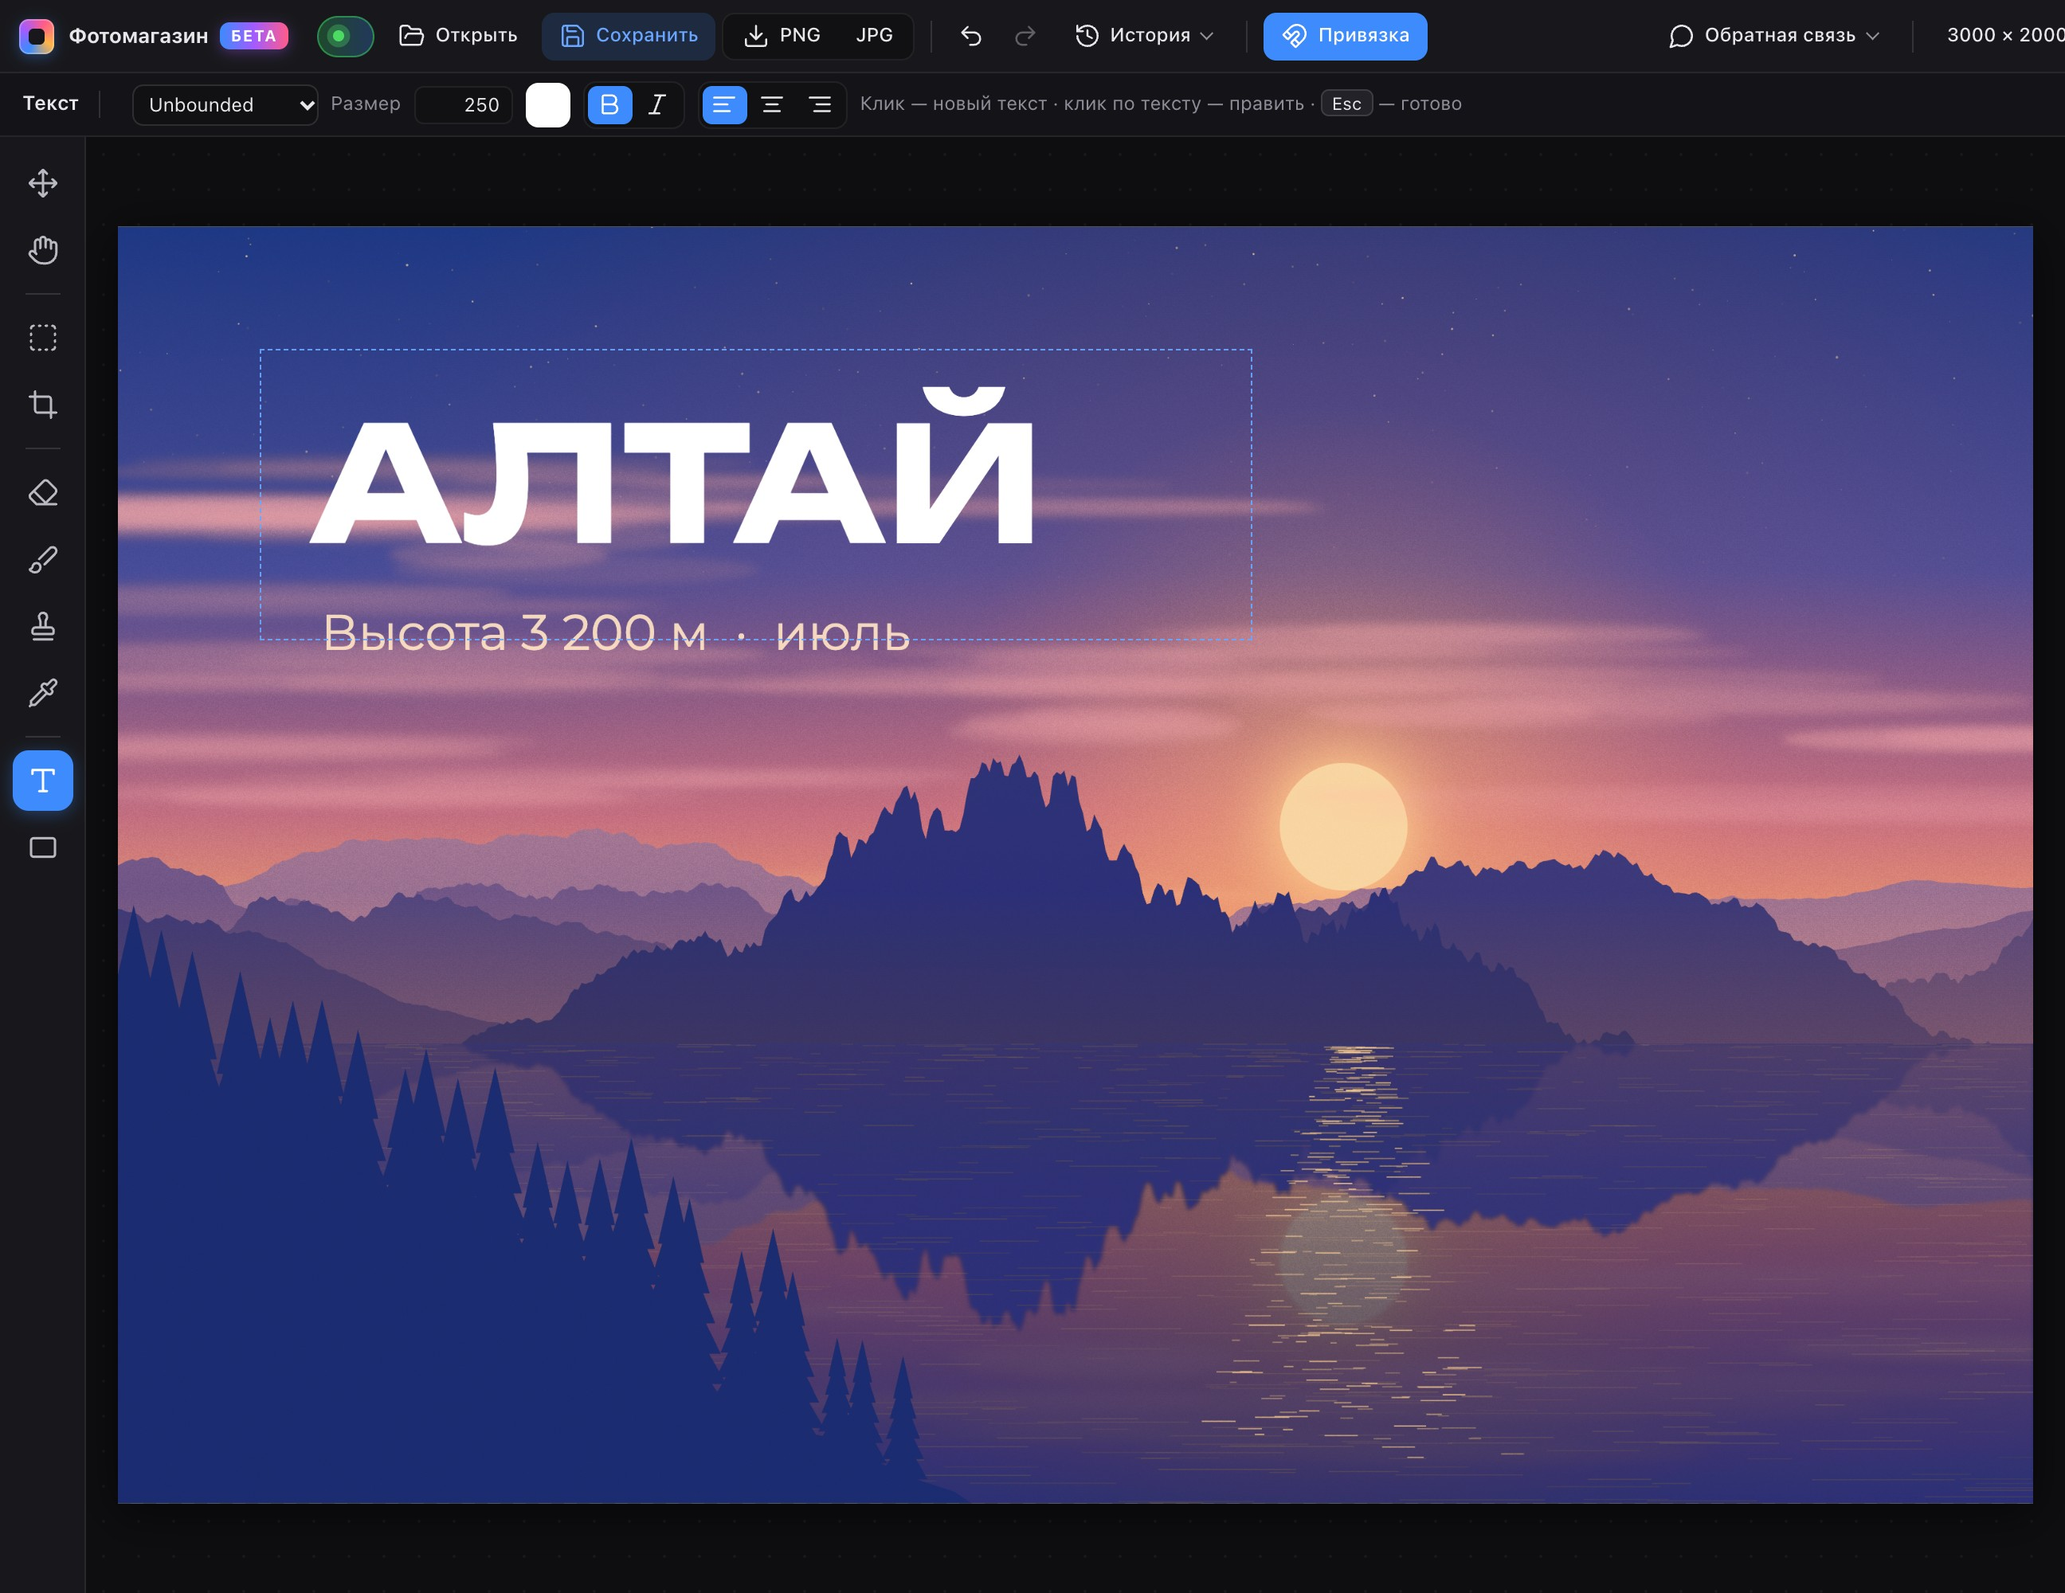
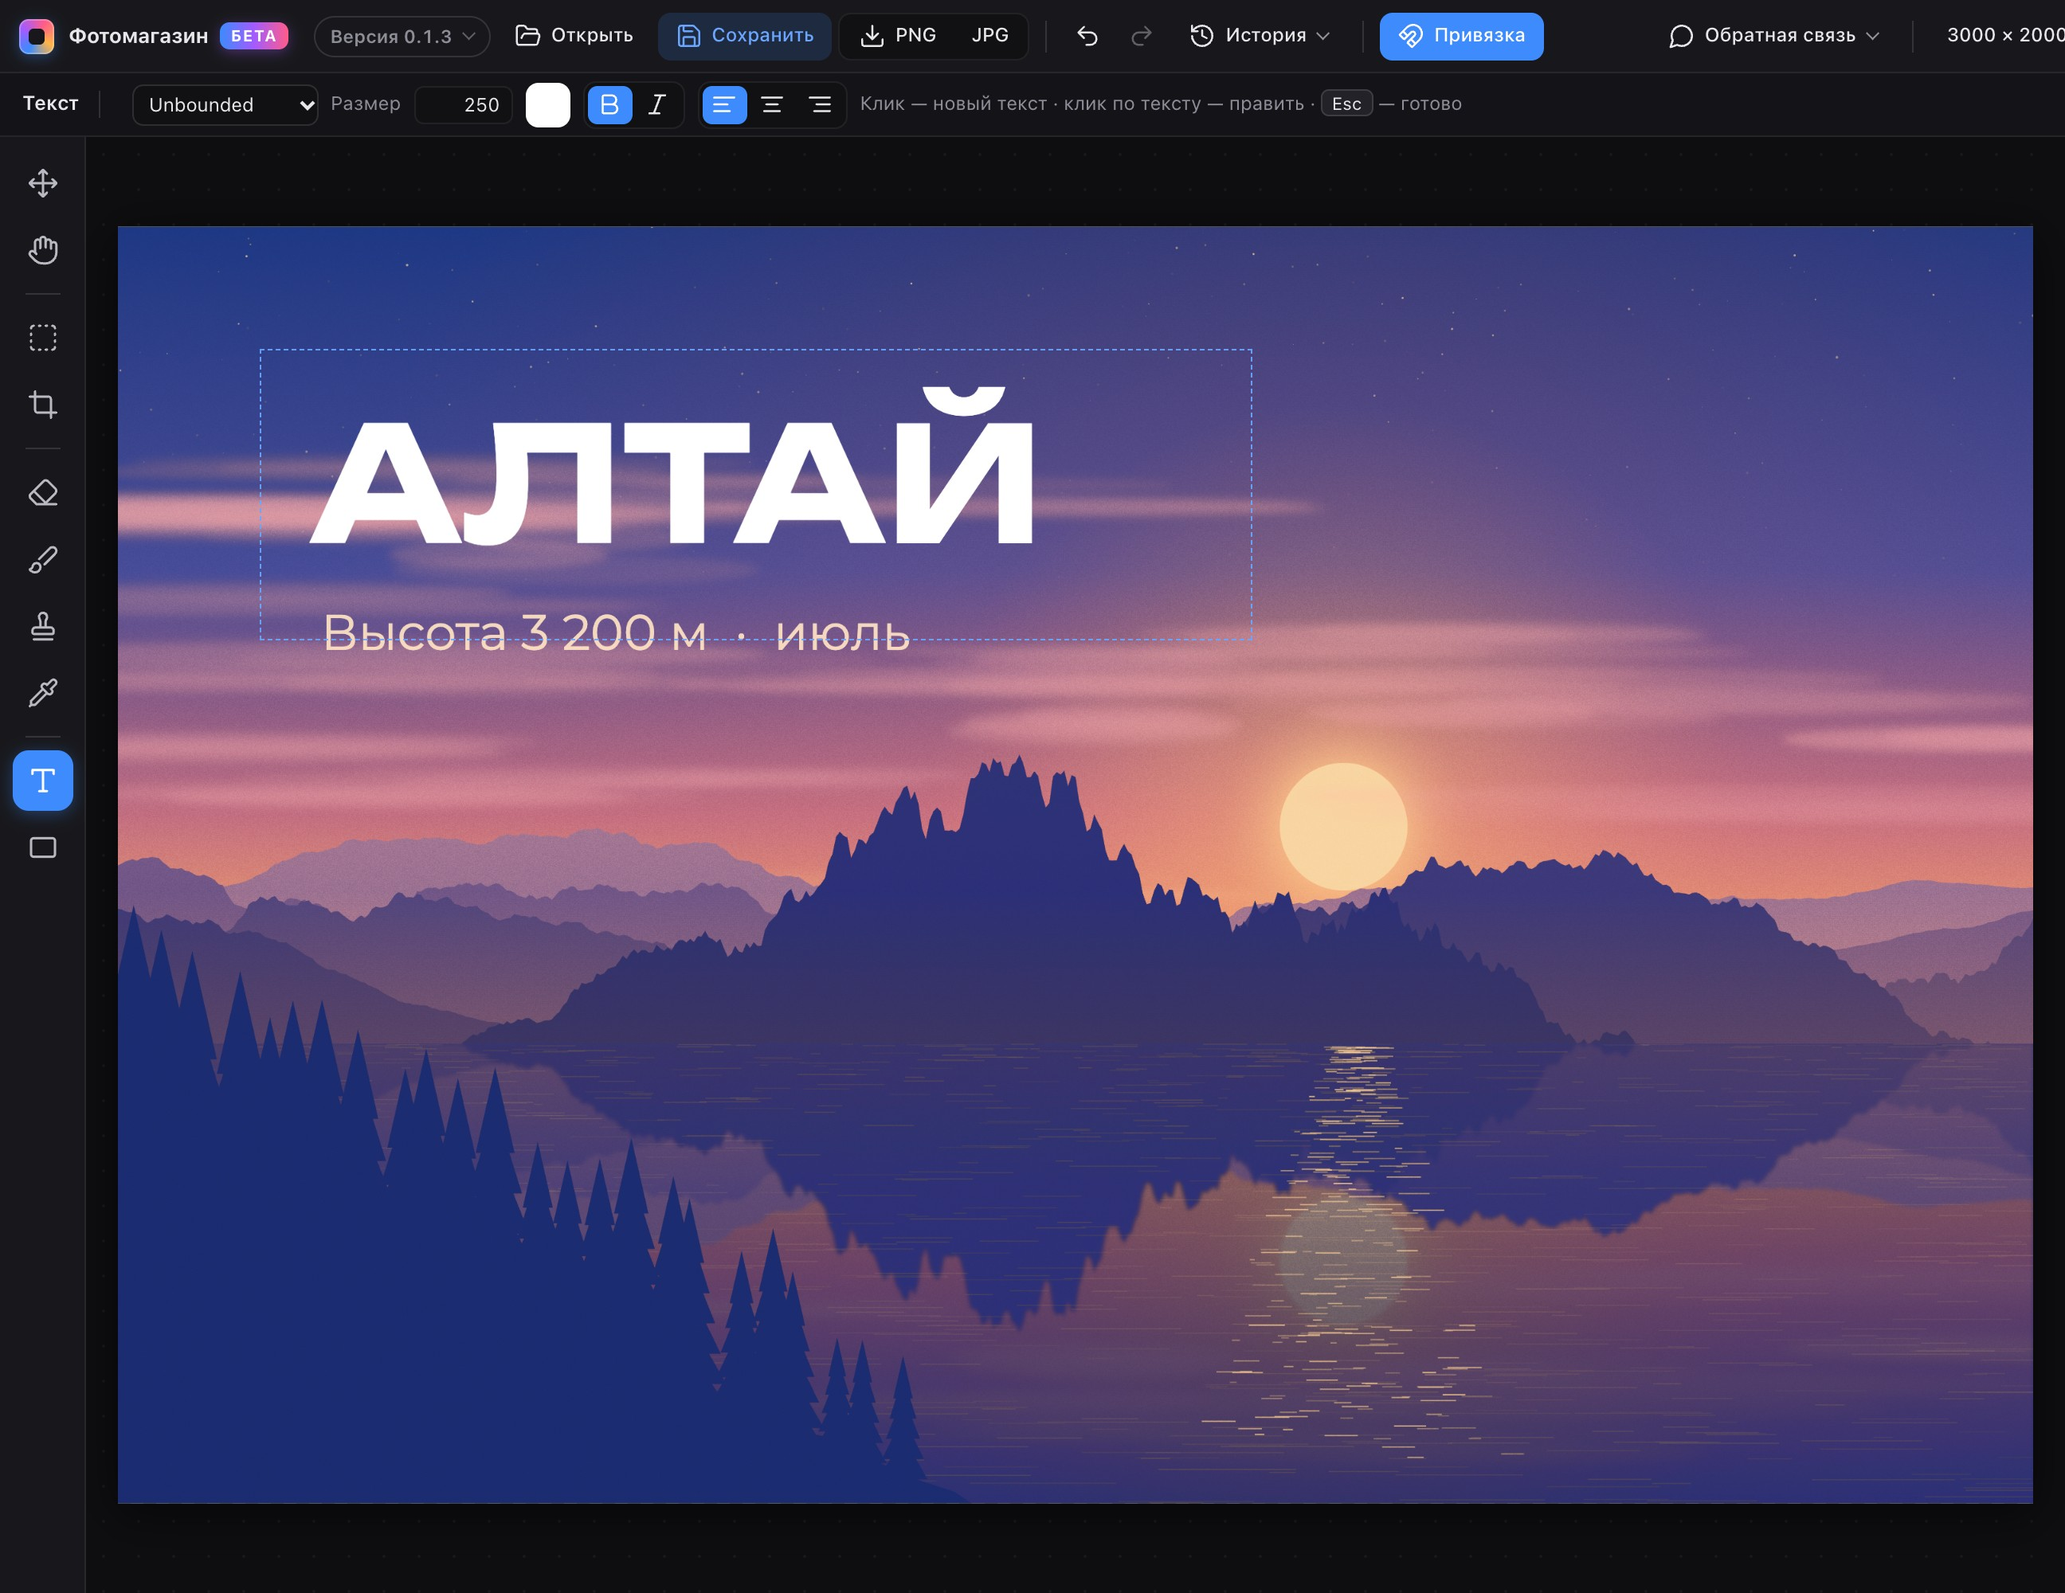
Сайт: версия 0.1.3, новые скриншоты (кнопка «Версия» в программе)

Changed region(s): [[0.1562, 0.0, 0.4375, 0.062], [0.5312, 0.0, 0.75, 0.062], [0.4688, 0.0, 0.5, 0.031]]

diff --git a/index.html b/index.html
@@ -9,8 +9,8 @@
 <meta property="og:type" content="website">
 <meta property="og:title" content="Фотомагазин — фоторедактор со слоями">
 <meta property="og:description" content="Слои, маски, свет и цвет, кадрирование и текст. Один файл, работает в браузере. Бесплатно.">
-<meta property="og:image" content="assets/hero.jpg?v=2">
-<link rel="icon" href="assets/icon.svg?v=2" type="image/svg+xml">
+<meta property="og:image" content="assets/hero.jpg?v=3">
+<link rel="icon" href="assets/icon.svg?v=3" type="image/svg+xml">
 <link rel="preconnect" href="https://fonts.googleapis.com">
 <link rel="preconnect" href="https://fonts.gstatic.com" crossorigin>
 <link rel="stylesheet" href="https://fonts.googleapis.com/css2?family=Inter:wght@400;500;600;700;800&family=Unbounded:wght@700&family=Playfair+Display:ital,wght@1,700&family=Caveat:wght@700&family=Lobster&display=swap">
@@ -32,7 +32,7 @@
 <!-- ========== первый экран ========== -->
 <header class="hero" id="top">
   <div class="wrap hero-text">
-    <a class="pill reveal" href="#together"><span class="dot"></span>Бета-версия <span data-ver>0.1.1</span> — помогите сделать её лучше<span class="arr">›</span></a>
+    <a class="pill reveal" href="#together"><span class="dot"></span>Бета-версия <span data-ver>0.1.3</span> — помогите сделать её лучше<span class="arr">›</span></a>
     <h1 class="reveal" style="--d:.08s"><span class="grad">Фотомагазин.</span></h1>
     <p class="lead reveal" style="--d:.16s">Настоящий фоторедактор со&nbsp;слоями.<br><span>Один файл. Работает в&nbsp;браузере. Бесплатно.</span></p>
     <div class="cta reveal" style="--d:.24s">
@@ -46,7 +46,7 @@
     <div class="glow" aria-hidden="true"></div>
     <div class="window" id="heroWin">
       <div class="bar"><i></i><i></i><i></i><span>Алтай.fotomag — Фотомагазин</span></div>
-      <img src="assets/hero.jpg?v=2" width="3200" height="2000" alt="Окно Фотомагазина: пейзаж с горами на закате, текстовые слои и панель «Свет и цвет»">
+      <img src="assets/hero.jpg?v=3" width="3200" height="2000" alt="Окно Фотомагазина: пейзаж с горами на закате, текстовые слои и панель «Свет и цвет»">
     </div>
   </div>
 </header>
@@ -78,7 +78,7 @@
       </ul>
     </div>
     <div class="shot-stack reveal" style="--d:.1s">
-      <div class="card zoom"><img src="assets/layers.jpg?v=2" width="606" height="370" alt="Панель слоёв: текстовые слои и фото" loading="lazy"></div>
+      <div class="card zoom"><img src="assets/layers.jpg?v=3" width="606" height="370" alt="Панель слоёв: текстовые слои и фото" loading="lazy"></div>
       <div class="tag t1"><svg viewBox="0 0 24 24"><path d="M4 7V4h16v3M9 20h6M12 4v16"/></svg>Текст — всегда отдельный слой</div>
       <div class="tag t2"><svg viewBox="0 0 24 24"><circle cx="12" cy="12" r="10"/><path d="M12 2a10 10 0 0 0 0 20z" fill="currentColor"/></svg>Маски без потерь</div>
     </div>
@@ -92,17 +92,17 @@
     <h2 class="reveal" style="--d:.05s">Свет и&nbsp;цвет —<br>под&nbsp;полным контролем.</h2>
     <p class="body narrow reveal" style="--d:.1s">Температура, экспозиция, контраст, тени, светлые, красочность — восемь ползунков, чтобы довести снимок до&nbsp;ума. Плюс цветовые круги для&nbsp;теней, средних тонов и&nbsp;светов. Всё считается на&nbsp;видеокарте — мгновенно, даже на&nbsp;снимках в&nbsp;50&nbsp;мегапикселей.</p>
     <div class="ba reveal" id="ba" style="--d:.15s">
-      <img src="assets/after.jpg?v=2" width="2400" height="1600" alt="После обработки: тёплый яркий закат" loading="lazy">
-      <div class="ba-before"><img src="assets/before.jpg?v=2" width="2400" height="1600" alt="До обработки: блёклый холодный снимок" loading="lazy"></div>
+      <img src="assets/after.jpg?v=3" width="2400" height="1600" alt="После обработки: тёплый яркий закат" loading="lazy">
+      <div class="ba-before"><img src="assets/before.jpg?v=3" width="2400" height="1600" alt="До обработки: блёклый холодный снимок" loading="lazy"></div>
       <div class="ba-line"><span class="knob"><svg viewBox="0 0 24 24"><path d="m9 6-6 6 6 6M15 6l6 6-6 6"/></svg></span></div>
       <span class="ba-lbl l">До</span><span class="ba-lbl r">После</span>
       <input class="ba-range" type="range" min="0" max="100" value="50" aria-label="Сравнить до и после">
     </div>
     <p class="hint reveal">Потяните, чтобы сравнить</p>
     <div class="duo">
-      <figure class="card reveal"><img src="assets/raw.jpg?v=2" width="606" height="688" alt="Ползунки панели «Свет и цвет»" loading="lazy">
+      <figure class="card reveal"><img src="assets/raw.jpg?v=3" width="606" height="688" alt="Ползунки панели «Свет и цвет»" loading="lazy">
         <figcaption><b>Восемь ползунков.</b> Двойной клик — сброс в&nbsp;ноль.</figcaption></figure>
-      <figure class="card reveal" style="--d:.1s"><img src="assets/wheels.jpg?v=2" width="606" height="482" alt="Цветовые круги: тени, средние, света" loading="lazy">
+      <figure class="card reveal" style="--d:.1s"><img src="assets/wheels.jpg?v=3" width="606" height="482" alt="Цветовые круги: тени, средние, света" loading="lazy">
         <figcaption><b>Цветовые круги.</b> Тёплые света и&nbsp;холодные тени — как в&nbsp;кино.</figcaption></figure>
     </div>
   </div>
@@ -118,7 +118,7 @@
       <div class="chips reveal" style="--d:.15s" id="ratioChips"><span>4 : 5</span><span>1 : 1</span><span>16 : 9</span><span>3 : 2</span><span>9 : 16</span></div>
     </div>
     <div class="demo crop-demo reveal" id="cropDemo" style="--d:.1s">
-      <img src="assets/after.jpg?v=2" width="2400" height="1600" alt="" loading="lazy">
+      <img src="assets/after.jpg?v=3" width="2400" height="1600" alt="" loading="lazy">
       <div class="frame" id="cropFrame"><i class="h tl"></i><i class="h tr"></i><i class="h bl"></i><i class="h br"></i><span class="sz" id="cropLbl">4 : 5</span></div>
       <div class="snap-badge" id="snapBadge"><svg viewBox="0 0 24 24"><path d="m6 15-4-4 6.75-6.77a7.79 7.79 0 0 1 11 11L13 22l-4-4 6.39-6.36a2.14 2.14 0 0 0-3-3L6 15M5 8l4 4M12 15l4 4"/></svg>Прилипло к краям</div>
     </div>
@@ -139,7 +139,7 @@
       </ul>
     </div>
     <div class="demo sel-demo reveal" id="selDemo" style="--d:.1s">
-      <img src="assets/after.jpg?v=2" width="2400" height="1600" alt="" loading="lazy">
+      <img src="assets/after.jpg?v=3" width="2400" height="1600" alt="" loading="lazy">
       <svg viewBox="0 0 2400 1600" preserveAspectRatio="none" aria-hidden="true">
         <defs><mask id="selMask"><rect width="2400" height="1600" fill="#fff"/>
           <ellipse class="m-ell" cx="1536" cy="752" rx="190" ry="190" fill="#000"/>
@@ -161,7 +161,7 @@
     <h2 class="reveal" style="--d:.05s">Печатайте прямо на&nbsp;фото.</h2>
     <p class="body narrow reveal" style="--d:.1s">Кликните — и&nbsp;пишите. 14 шрифтов с&nbsp;кириллицей, жирный, курсив, выравнивание. Растягиваете рамку — растёт сам шрифт, поэтому буквы всегда остаются чёткими.</p>
     <div class="demo text-demo reveal" id="textDemo" style="--d:.15s">
-      <img src="assets/after.jpg?v=2" width="2400" height="1600" alt="" loading="lazy">
+      <img src="assets/after.jpg?v=3" width="2400" height="1600" alt="" loading="lazy">
       <div class="tx-box"><span class="tx" id="tx"></span><i class="caret"></i></div>
     </div>
     <div class="fonts reveal" id="fontChips"><span>Unbounded</span><span>Playfair Display</span><span>Caveat</span><span>Lobster</span></div>
@@ -179,9 +179,9 @@
     <div class="window tabs reveal" style="--d:.15s">
       <div class="bar"><i></i><i></i><i></i><span>Алтай.fotomag — Фотомагазин</span></div>
       <div class="tab-stage">
-        <img class="on" src="assets/crop.jpg?v=2" width="2592" height="2000" alt="Кадрирование с пропорцией 4:5" loading="lazy">
-        <img src="assets/select.jpg?v=2" width="2592" height="2000" alt="Выделение овалом вокруг солнца" loading="lazy">
-        <img src="assets/text.jpg?v=2" width="2592" height="2000" alt="Редактирование текста на фото" loading="lazy">
+        <img class="on" src="assets/crop.jpg?v=3" width="2592" height="2000" alt="Кадрирование с пропорцией 4:5" loading="lazy">
+        <img src="assets/select.jpg?v=3" width="2592" height="2000" alt="Выделение овалом вокруг солнца" loading="lazy">
+        <img src="assets/text.jpg?v=3" width="2592" height="2000" alt="Редактирование текста на фото" loading="lazy">
       </div>
     </div>
     <p class="tab-cap reveal" id="tabCap">Пропорция 4 : 5, сетка третей и размер будущего кадра — прямо поверх фото.</p>
@@ -217,7 +217,7 @@
 <section class="together" id="together">
   <div class="wrap">
     <div class="center">
-      <p class="eyebrow reveal">Бета-версия <span data-ver>0.1.1</span></p>
+      <p class="eyebrow reveal">Бета-версия <span data-ver>0.1.3</span></p>
       <h2 class="reveal" style="--d:.05s">Фотомагазин создаётся<br>вместе с&nbsp;вами.</h2>
       <p class="body narrow reveal" style="--d:.1s">Это ранняя версия: основа уже работает, но&nbsp;многого ещё нет, а&nbsp;что-то может сломаться. Расскажите, чего вам не&nbsp;хватает, — автор читает каждое сообщение, а&nbsp;в&nbsp;канале вы&nbsp;голосуете за&nbsp;то, что появится дальше.</p>
     </div>
@@ -254,7 +254,7 @@
     <i class="logo big reveal"></i>
     <h2 class="reveal" style="--d:.05s">Начните прямо сейчас.</h2>
     <p class="body narrow reveal" style="--d:.1s">Бесплатно. Без регистрации. Архив меньше 100&nbsp;КБ — программа и&nbsp;короткая инструкция.</p>
-    <p class="fine reveal" style="--d:.12s">Бета-версия <span data-ver>0.1.1</span>. Нашли ошибку или&nbsp;чего-то не&nbsp;хватает? <a class="inl" data-form="idea" href="#together">Напишите нам</a>.</p>
+    <p class="fine reveal" style="--d:.12s">Бета-версия <span data-ver>0.1.3</span>. Нашли ошибку или&nbsp;чего-то не&nbsp;хватает? <a class="inl" data-form="idea" href="#together">Напишите нам</a>.</p>
     <div class="cta reveal" style="--d:.15s">
       <a class="btn btn-lg" href="https://github.com/fotomagazin/fotomagazin/releases/latest/download/fotomagazin.zip">
         <svg viewBox="0 0 24 24"><path d="M21 15v4a2 2 0 0 1-2 2H5a2 2 0 0 1-2-2v-4M7 10l5 5 5-5M12 15V3"/></svg>Скачать Фотомагазин</a>
